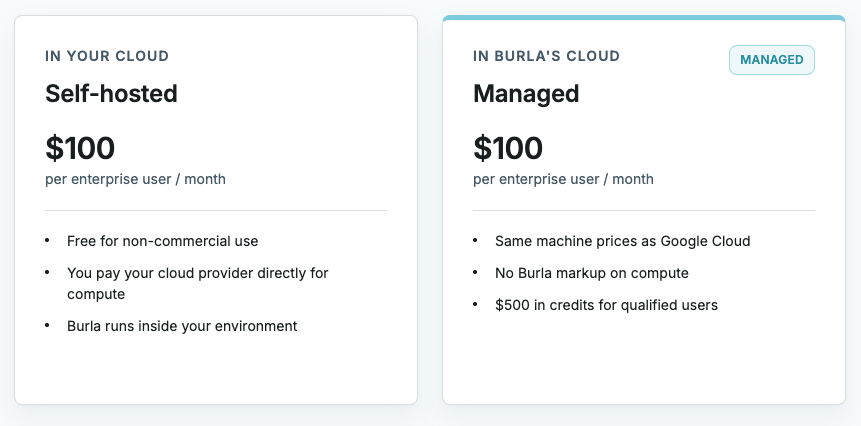
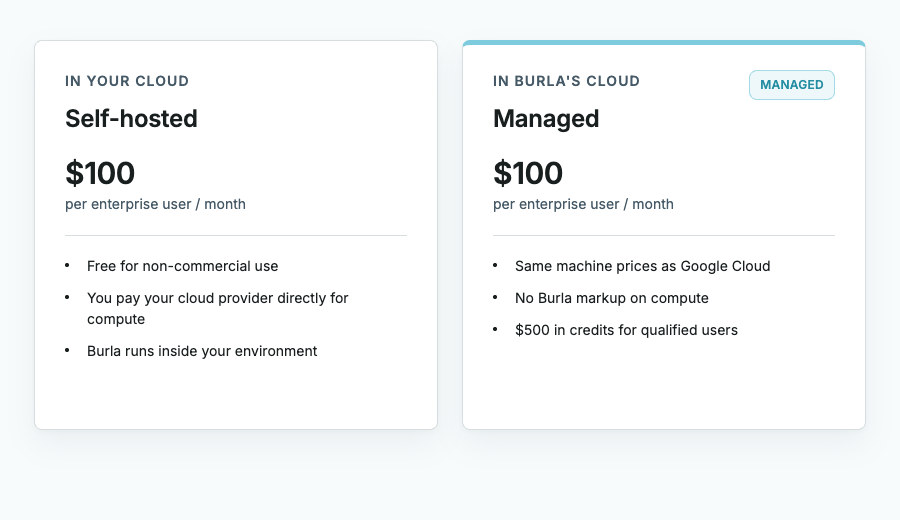
GITBOOK-663: No subject

diff --git a/API-Reference.md b/API-Reference.md
@@ -1,6 +1,12 @@
 # API Reference
 
-## API-Reference
+Burla's Python API contains the following top-level interfaces:
+
+* [`burla.remote_parallel_map`](API-Reference.md#burla.remote_parallel_map) Run any Python function on many remote computers.
+
+That's it!
+
+***
 
 ### `burla.remote_parallel_map`
 

diff --git a/CLI-Reference.md b/CLI-Reference.md
@@ -1,7 +1,5 @@
 # CLI Reference
 
-## CLI-Reference
-
 Burla's CLI contains the following commands:
 
 * [`burla install`](CLI-Reference.md#burla-install) Deploy self-hosted Burla in your Google Cloud project.

diff --git a/README.md b/README.md
@@ -114,7 +114,7 @@ The `func_cpu` and `func_ram` args make it possible to assign big hardware to so
 Free for Hobbyists. Enterprise seats are $100/month.\
 Same machine prices as Google Cloud. No Burla markup on compute.
 
-<figure><img src=".gitbook/assets/image (2).png" alt=""><figcaption></figcaption></figure>
+<figure><img src=".gitbook/assets/image (2) (1).png" alt=""><figcaption></figcaption></figure>
 
 ## Run your first 1000-CPU job in 2 minutes:
 